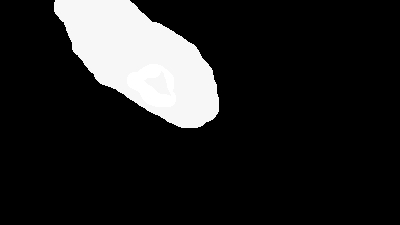
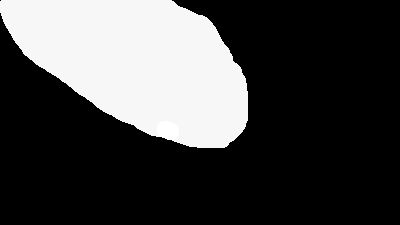
Añadido ejemplo de meteorito

Changed region(s): [[0.0, 0.0, 0.63, 0.6844]]

diff --git a/poisson_blending.py b/poisson_blending.py
@@ -587,6 +587,26 @@ def pegarLunaPlaya():
     else:
         print("Posición destino no válida: el objeto se sale de la imagen")
 
+def pegarMeteoritoCiudad():
+    mask_meteorito = getObjeto("mask_meteorito.jpg")
+    meteorito = cargarImagen("imagenes/sources/meteorito.jpg", 1)
+    destino = cargarImagen("imagenes/targets/ciudad.jpg", 1)
+
+    pos_meteorito = [0.15, 0.2]
+    despl_met, despl_valido = calcularDesplazamiento(pos_meteorito, mask_meteorito, destino)
+
+    if despl_valido:
+        res_paste = pegarObjeto(mask_meteorito, meteorito, destino, despl_met)
+        mostrarImagen(res_paste)
+
+        res_import, res_mixing = poissonBlending(mask_meteorito, meteorito, destino, despl_met)
+        
+        mostrarVariasImagenes([res_paste, res_import, res_mixing], norm=False)
+        cv2.imwrite('salidas/meteorito_ciudad_paste.jpg', res_paste)
+        cv2.imwrite('salidas/meteorito_ciudad_import.jpg', res_import)
+        cv2.imwrite('salidas/meteorito_ciudad_mixing.jpg', res_mixing)
+    else:
+        print("Posición destino no válida: el objeto se sale de la imagen")
 
 
 # pegarGrafitiPared()
@@ -596,4 +616,5 @@ def pegarLunaPlaya():
 # pegarLunaPlaya()
 # pegarPinguinoParque()
 # pegarTazaCocina()
-pegarPinguinoParque()
+# pegarPinguinoPlaya()
+pegarMeteoritoCiudad()
